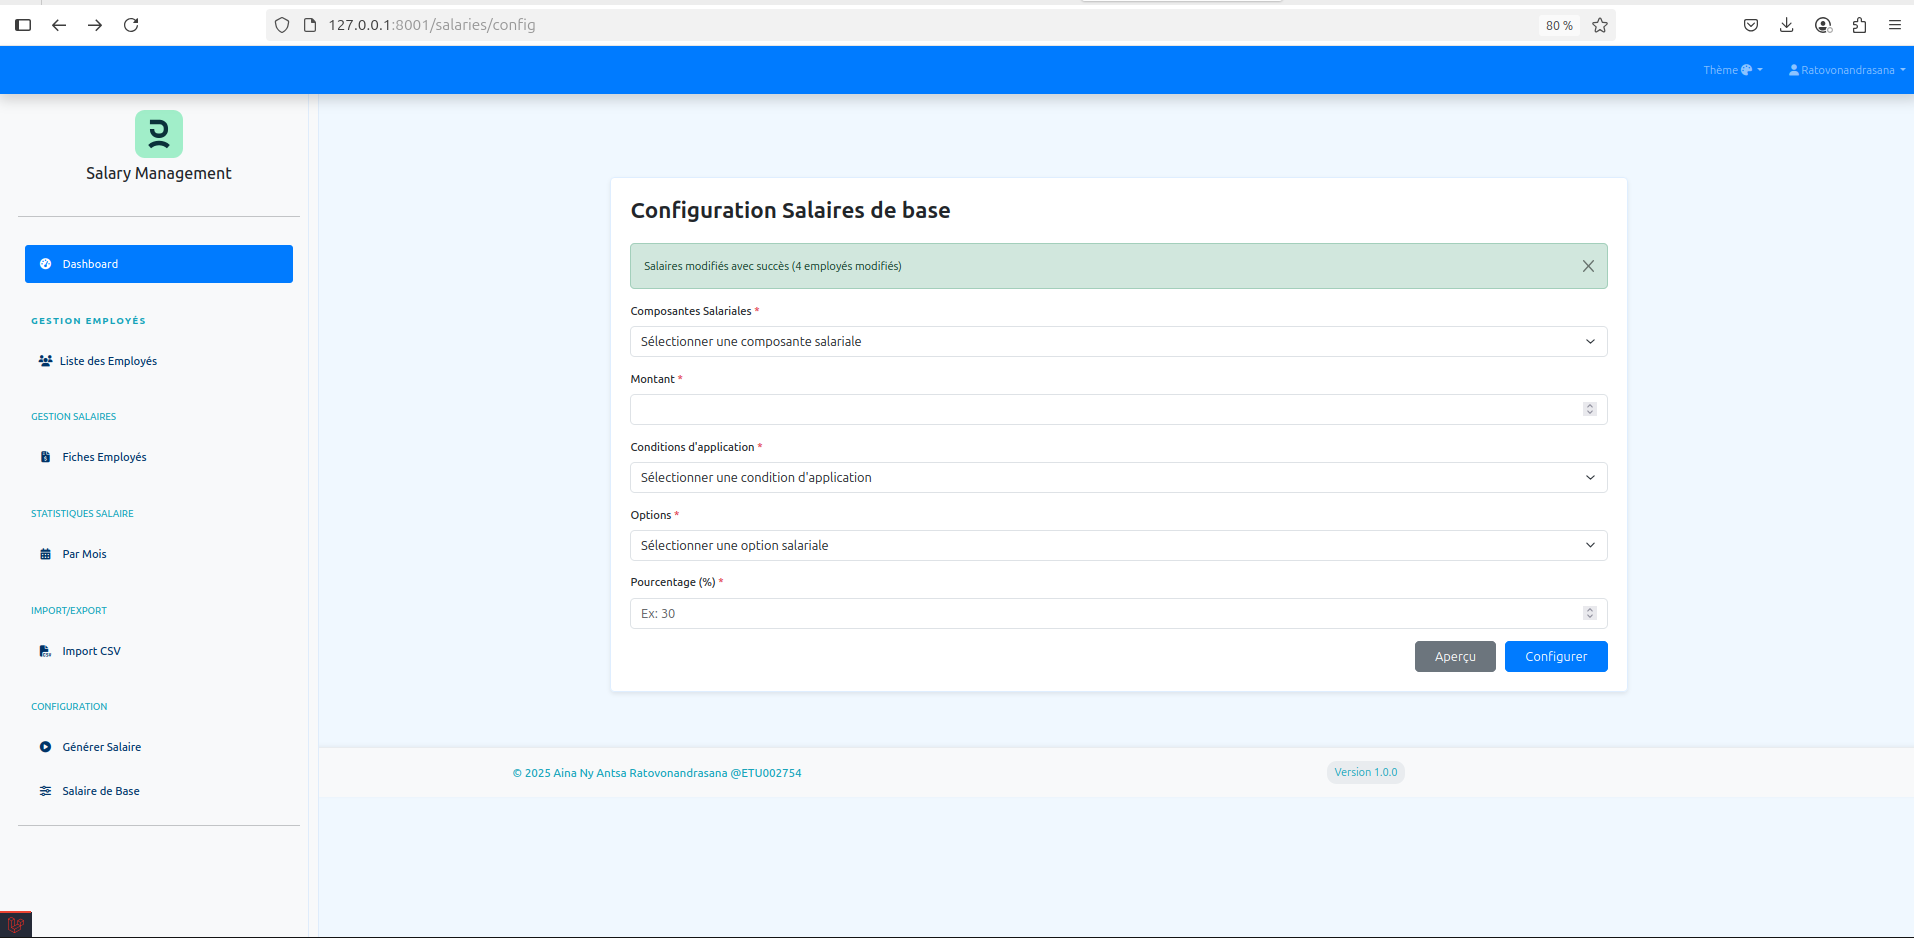
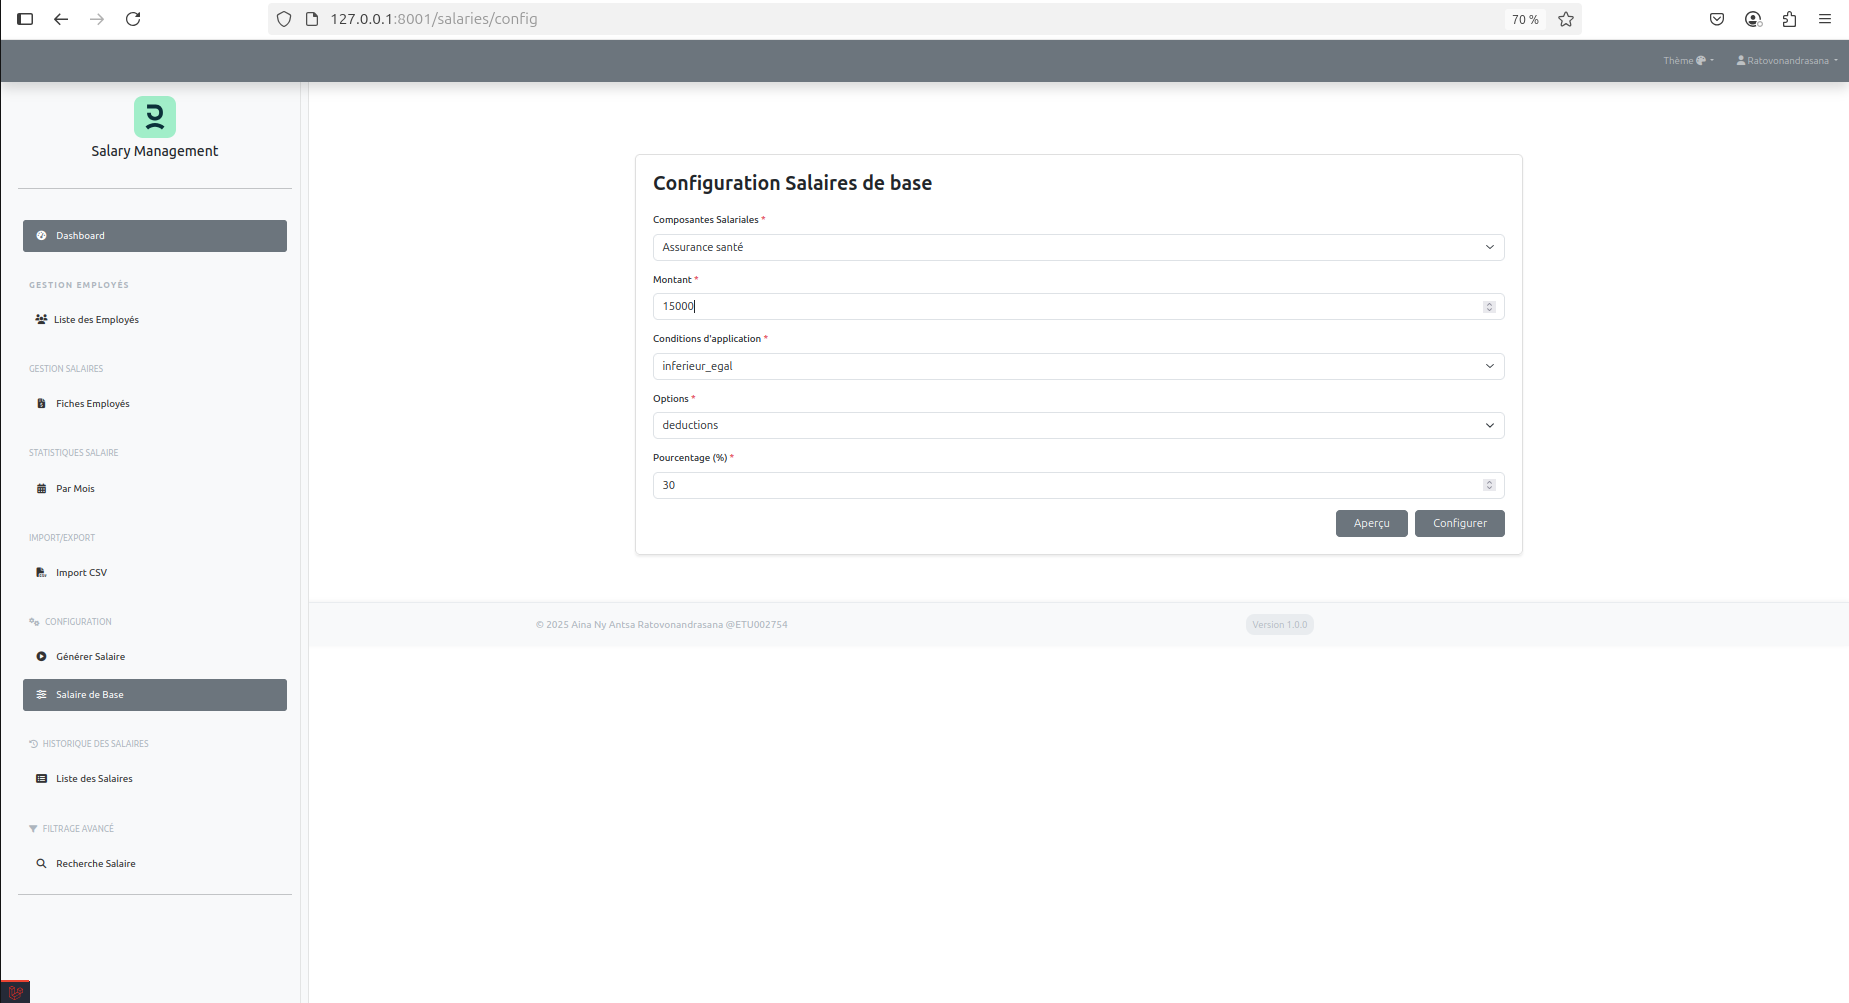
docs:adds final readme of the project with all developed features

diff --git a/README.md b/README.md
@@ -50,17 +50,41 @@ Une application web complète de gestion des salaires développée en **Laravel*
 - Tendances et projections salariales
 
 ### ⚙ 6. Configuration et Automatisation
-![Génération Automatique](images/9.png) ![Salaire Généré](images/13.png)
-- **Génération automatique** des salaires manquants entre deux dates
-- Formulaire de configuration pour générer les mois manquants
-- Exemple : génération automatique de 1,500,000 Ar pour les périodes manquantes
+# Configuration et Automatisation
 
+![Génération Automatique](images/9.png) ![Salaire Généré](images/13.png)
+
+- **Génération automatique** des salaires manquants entre deux dates pour un employé spécifié.
+- Formulaire de configuration pour générer les mois manquants avec les options suivantes :
+  - **Écrasement des salaires existants** : Lorsque l'option `Écraser les salaires existants` est activée, les `Salary Structure Assignments` et `Salary Slips` existants pour les mois sélectionnés sont annulés (si soumis, `docstatus = 1`) ou supprimés (si brouillon, `docstatus = 0`), puis de nouveaux assignments et slips sont créés avec le salaire de base spécifié ou, si non fourni, le dernier salaire de référence avant la période.
+  - **Utilisation de la moyenne des salaires** : Lorsque l'option `Utiliser la moyenne des salaires` est activée, le salaire de base est calculé comme la moyenne des salaires de base des `Salary Structure Assignments` soumis (`docstatus = 1`) pour tous les employés.
+  - **Saisie manuelle du salaire de base** : Si un salaire de base est fourni dans le formulaire, il est utilisé pour la génération des salaires. Si aucun salaire de base n'est fourni et l'option de moyenne n'est pas activée, le système utilise le dernier salaire de base soumis avant la période sélectionnée comme référence. Une erreur est retournée si aucun salaire de référence n'est trouvé.
+- Exemple : Génération automatique de salaires de 1,500,000 Ar pour les périodes manquantes (par exemple, avril et mai 2025). Si l'option d'écrasement est activée, les salaires existants pour ces mois sont remplacés par 1,500,000 Ar. Si aucun salaire de base n'est fourni, le salaire de mars 2025 (par exemple, 150,000 Ar) est utilisé comme référence pour les deux mois.
+
+###  6. Modification salaire 
 ![Modification Salaire](images/10.png)
 - **Modification du salaire de base** par conditions et règles personnalisées
 - Gestion des augmentations et ajustements salariaux
 - Interface intuitive pour les modifications en masse
 
-### 📥 7. Import de Données CSV
+###  7. Historique des salaires avec statistiques
+![Historique Salaire](images/14.png)
+- **Historique des salaires avec statistiques** :
+  - Permet de consulter l'historique des salaires d'un employé spécifique sur une période donnée (définie par une date de début et de fin) ou pour une année spécifique.
+  - Affiche les détails des `Salary Structure Assignments` et `Salary Slips` pour l'employé, incluant les salaires de base et autres composants salariaux.
+  - Calcule des statistiques telles que la moyenne, le minimum, le maximum et l'écart-type des salaires sur la période sélectionnée, offrant une vue d'ensemble des tendances salariales.
+  - Interface utilisateur accessible via `salaries.historiques.index`, avec un formulaire pour sélectionner l'employé, la période ou l'année, et afficher les résultats avec des statistiques.
+  - Exemple : Consultation de l'historique des salaires pour un employé entre avril et mai 2025, avec une moyenne salariale calculée pour cette période.
+
+###  8. Recherche de salaires par critères
+![Recherche Salaire](images/15.png)
+- **Recherche de salaires par critères** :
+  - Permet de filtrer les employés selon des critères spécifiques basés sur les composants salariaux, un montant de référence et une condition (inférieur, supérieur, égal, inférieur ou égal, supérieur ou égal).
+  - Utilise une interface intuitive (`filter.salary.index`) pour sélectionner un composant salarial (par exemple, salaire de base, prime), un montant et une condition pour identifier les employés correspondants.
+  - Affiche les résultats de la recherche, incluant les employés dont les salaires répondent aux critères définis, avec les détails des composants salariaux.
+  - Exemple : Recherche des employés ayant un salaire de base supérieur à 1,000,000 Ar, affichant tous les employés correspondants avec leurs détails salariaux.
+
+### 📥 9. Import de Données CSV
 ![Import CSV](images/8.png)
 - **Import en masse** via fichiers CSV pour trois types de données
 - Validation automatique des données importées
@@ -132,6 +156,8 @@ L'application propose une interface intuitive avec :
 - Tableaux de bord avec statistiques complètes
 - Graphiques d'évolution temporelle
 - Outils de configuration et d'import
+- Recherche salaire et suivie avec statistques avec moyennes des salaires et historiques.
+- Outils de configuration et d'import
 
 ## 🔧 Installation et Configuration
 
@@ -141,65 +167,136 @@ L'application propose une interface intuitive avec :
 - **Node.js** et **npm** pour les assets frontend
 - **Serveur ERPNext** configuré et accessible
 - **Base de données** MySQL/MariaDB
-- **Serveur web** Apache/Nginx
 
-### Installation
+# Guide d'Installation - Salary Management
 
-1. **Cloner le repository**
+## 🔧 Prérequis
+
+Avant de commencer l'installation, assurez-vous d'avoir :
+- PHP 8.1 ou supérieur
+- Composer
+- Node.js et npm
+- Un serveur web (Apache/Nginx)
+- Accès à une instance ERPNext fonctionnelle
+
+## 📋 Étapes d'Installation
+
+### 1. Installation d'ERPNext
+
+Suivez les instructions officielles pour installer ERPNext : [Documentation ERPNext](https://frappeframework.com/docs/user/en/installation). 
+
+**Important :** Assurez-vous que l'environnement ERPNext est correctement configuré avant de procéder aux étapes suivantes.
+
+### 2. Installation du module HRMS
+
+Installez le module HR (HRMS) requis pour la gestion des salaires :
+
+```bash
+bench get-app hrms
+ls sites/
+bench --site erpnext.localhost install-app hrms
+```
+
+**Note :** La commande `ls sites/` permet de vérifier le nom du site ERPNext (par exemple, `erpnext.localhost`). Remplacez `erpnext.localhost` par le nom de votre site.
+
+### 3. Configuration ERPNext
+
+#### 3.1 Activer l'API REST
+- Aller dans ERPNext > Paramètres > Paramètres système
+- Activer "Allow REST API"
+
+#### 3.2 Créer les API Keys
+- Générer des clés API pour l'authentification
+- Configurer les permissions pour le module RH
+
+#### 3.3 Vérifier les modules RH requis
+Assurez-vous que les modules suivants sont disponibles :
+- Employee (Employé)
+- Salary Structure (Structure Salariale)
+- Salary Component (Composant de Salaire)
+- Salary Slip (Fiche de Paie)
+- Employment Type (Type d'Emploi)
+- Department (Département)
+
+### 4. Installation du projet Salary Management
+
+#### 4.1 Cloner le repository
 ```bash
 git clone https://github.com/antsamadagascar/salary_management.git
 cd salary_management
 ```
 
-2. **Installer les dépendances PHP**
+#### 4.2 Installer les dépendances
 ```bash
+# Dépendances PHP
 composer install
-```
 
-3. **Installer les dépendances JavaScript**
-```bash
+# Dépendances JavaScript
 npm install
 npm run build
 ```
 
-4. **Configuration Laravel**
+#### 4.3 Configuration Laravel
 ```bash
+# Copier le fichier de configuration
 cp .env.example .env
+
+# Générer la clé d'application
 php artisan key:generate
 ```
 
-5. **Configuration ERPNext dans .env**
+#### 4.4 Configuration des variables d'environnement
+Modifier le fichier `.env` avec vos paramètres ERPNext :
+
 ```env
 APP_KEY=votre_api_key_generate_laravel
 ERP_API_KEY=votre_api_key
 ERP_API_SECRET=votre_api_secret
 ERP_API_URL=https://votre-erpnext.com
-
 ```
 
-6. **Migration et configuration**
+### 5. Lancement de l'application
+
 ```bash
-php artisan migrate
-php artisan db:seed
+php artisan serve
 ```
 
-### Configuration ERPNext
+### 6. Accès à l'application
 
-1. **Activer l'API REST**
-   - Aller dans ERPNext > Paramètres > Paramètres système
-   - Activer "Allow REST API"
+Ouvrir [http://127.0.0.1:8000/](http://127.0.0.1:8000/) dans votre navigateur et se connecter avec les identifiants ERPNext.
 
-2. **Créer les API Keys**
-   - Générer des clés API pour l'authentification
-   - Configurer les permissions pour le module RH
+## 🚀 Démarrage Rapide
 
-3. **Module RH requis**
-   - Employee (Employé)
-   - Salary Structure (Structure Salariale)
-   - Salary Component (Composant de Salaire)
-   - Salary Slip (Fiche de Paie)
-   - Employment Type (Type d'Emploi)
-   - Department (Département)
+Pour une installation rapide (si ERPNext est déjà configuré) :
+
+```bash
+# 1. Cloner et installer
+git clone https://github.com/antsamadagascar/salary_management.git
+cd salary_management
+composer install
+npm install && npm run build
+
+# 2. Configurer
+cp .env.example .env
+php artisan key:generate
+
+# 3. Modifier .env avec vos paramètres ERPNext
+
+# 4. Lancer
+php artisan serve
+```
+
+## ⚠ Notes importantes
+
+- Vérifiez que votre instance ERPNext est accessible avant de configurer l'application
+- Les clés API doivent avoir les permissions appropriées pour accéder aux modules RH
+- Le port par défaut est 8000, mais vous pouvez le modifier si nécessaire
+- Assurez-vous que tous les modules HRMS requis sont installés et configurés dans ERPNext
+
+## Importer les données
+
+Importer les données via les fichiers CSV d'exemple(data/data-test/data-true).
+
 
 ## 📊 Avantages de l'Architecture
 
@@ -229,33 +326,6 @@ php artisan db:seed
 - **Maintenance simplifiée** avec deux systèmes spécialisés
 - **Performance optimisée** avec cache Laravel
 
-## 🚀 Démarrage Rapide
-
-1. **Cloner et installer**
-```bash
-git clone https://github.com/antsamadagascar/salary_management.git
-cd salary_management
-composer install
-npm install && npm run build
-```
-
-2. **Configurer l'environnement**
-```bash
-cp .env.example .env
-php artisan key:generate
-# Configurer les paramètres ERPNext dans .env
-```
-
-3. **Lancer l'application**
-```bash
-php artisan serve
-```
-
-4. **Accéder à l'application**
-   - Ouvrir http://127.0.0.1:8001/
-   - Se connecter avec les identifiants ERPNext
-   - Importer les données via les fichiers CSV d'exemple
-
 ## 🏗 Structure du Projet
 
 ```
@@ -263,31 +333,34 @@ salary_management/
 ├── app/
 │   ├── Http/
 │   │   ├── Controllers/
-│   │   │   ├── AuthController.php
-│   │   │   ├── Employee/
-│   │   │   │   ├── EmployeeController.php
-│   │   │   │   └── PayrollController.php
-│   │   │   ├── Salary/
-│   │   │   │   ├── ConfigurationController.php
-│   │   │   │   ├── GenerateController.php
-│   │   │   │   ├── ImportController.php
-│   │   │   │   ├── DetailsController.php
-│   │   │   │   └── StatsController.php
-│   │   │   └── System/
-│   │   │       └── ResetDataController.php
+│   │   │   ├──AuthController.php
+│   │   │   ├──ConfigurationSalaryController.php
+│   │   │   ├──EmployeeController.php
+│   │   │   ├──EmployeePayrollController.php
+│   │   │   ├──FilterSalaryController.php
+│   │   │   ├──GenerateSalaryController.php
+│   │   │   ├──HistoryController.php
+│   │   │   ├──ImportController.php
+│   │   │   ├──PayrollStatsController.php
+│   │   │   ├──ResetDataController.php
+│   │   │   └──SalaryDetailsController.php
 │
 │   ├── Services/
-│   │   ├── Api/
+│   │   ├── api/
 │   │   │   └── ErpApiService.php
-│   │   ├── Config/
+│   │   ├── config/
 │   │   │   └── SalaryConfigService.php
-│   │   ├── Employee/
+│   │   ├── employee/
 │   │   │   └── EmployeeService.php
-│   │   ├── Export/
+|   |   ├── filter/
+│   │   │   └── FilterService.php
+│   │   ├── export/
 │   │   │   └── ExportService.php
-│   │   ├── Generate/
+│   │   ├── generate/
 │   │   │   └── SalaryService.php
-│   │   ├── Import/
+|   |   ├── history/
+│   │   │   └── HistorySalaryService.php
+│   │   ├── import/
 │   │   │   ├── EmployeeServiceImport.php
 │   │   │   ├── FiscalYearManagerService.php
 │   │   │   ├── PayrollServiceImport.php
@@ -296,16 +369,21 @@ salary_management/
 │   │   │   ├── PayrollDataService.php
 │   │   │   ├── PayrollEmployeeService.php
 │   │   │   └── PayrollStatsService.php
-│
+│   │   ├── resetData/
+│   │   │   ├── ResetDataService.php
+│   |   |
 │   ├── Models/
 │   │   └── User.php
 │
 ├── resources/
 │   ├── views/
+│   │   ├── auth/
 │   │   ├── employees/
+│   │   ├── filter/
 │   │   ├── configuration/
 │   │   ├── import/
 │   │   ├── payroll/
+│   │   ├── layouts/
 │   │   ├── reset-data/
 │   │   ├── salaries/
 │   │   └── dashboard/
